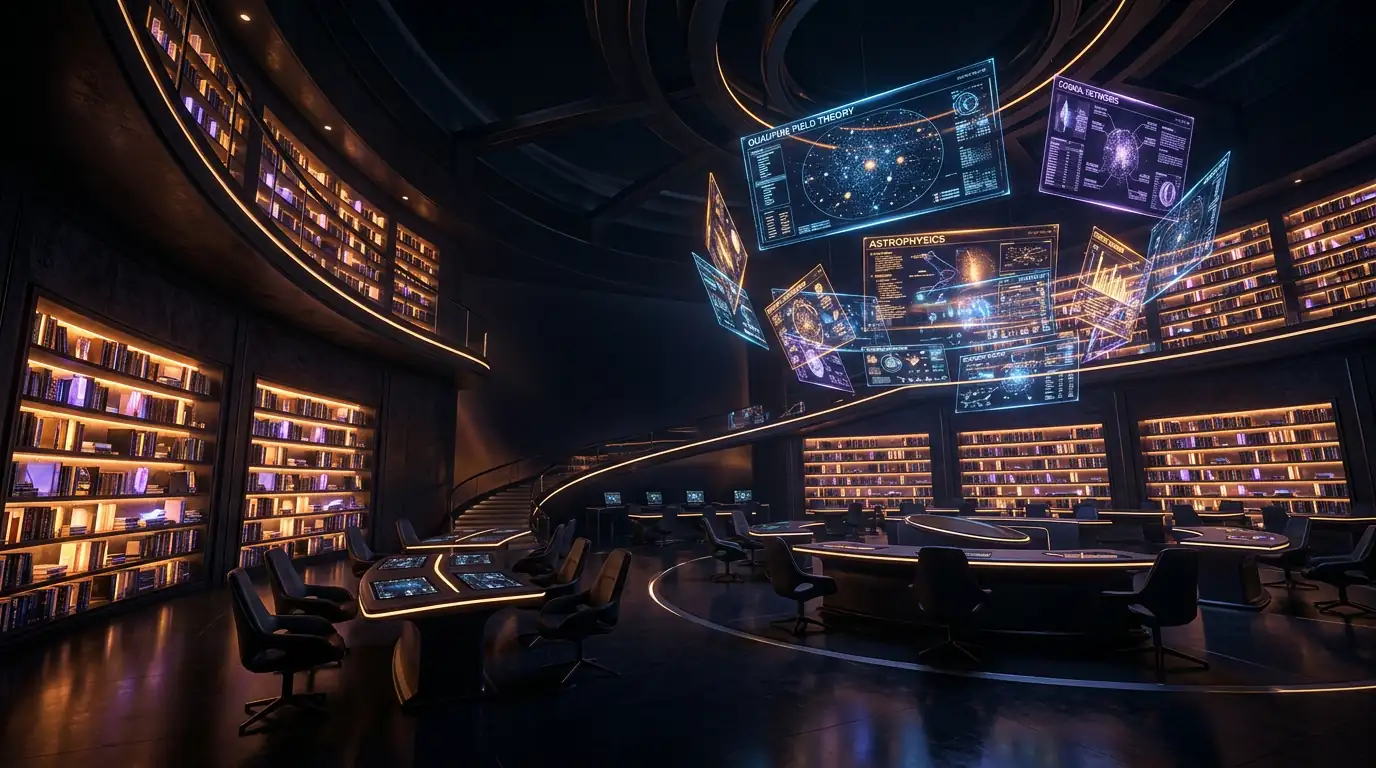
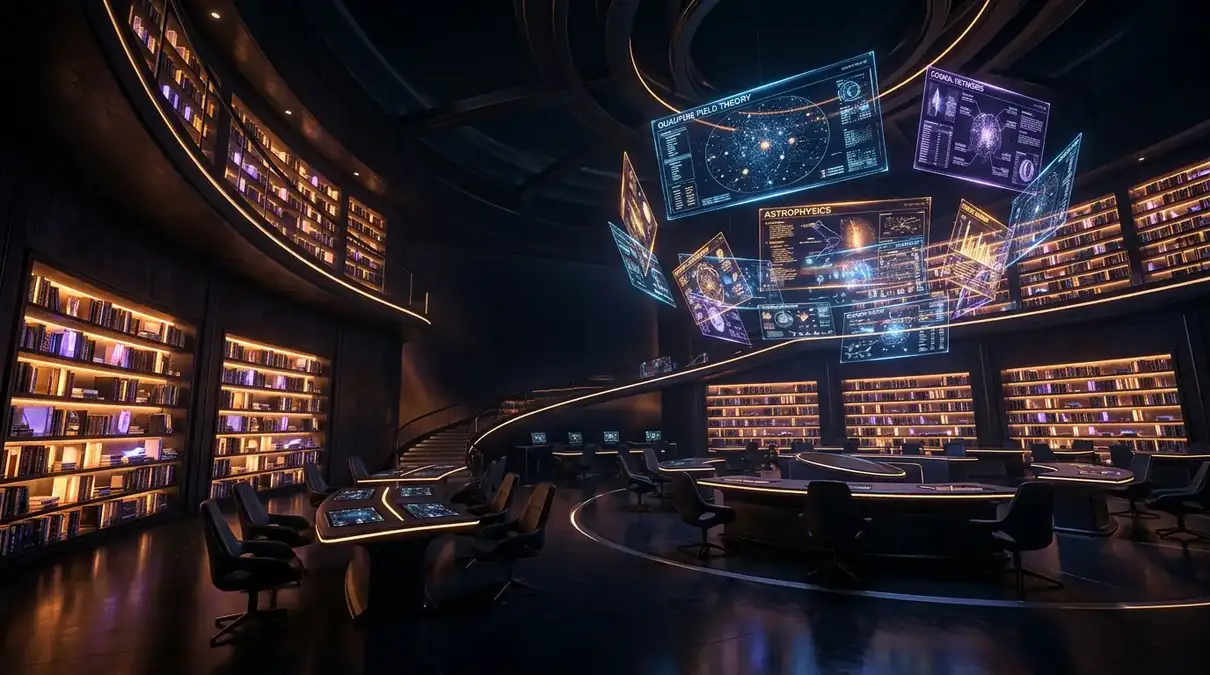
perf(assets): compress and optimize all project images to strictly under 100KB

diff --git a/README.md b/README.md
@@ -94,6 +94,12 @@ npx serve .
 
 ## 📝 Recent Changes
 
+### v1.1.9 — Project-Wide Image Optimization Under 100 KB *(Sep 16, 2026)*
+
+- **Platform-Wide Image Compression** — Scanned all 106 images across the repository and compressed every image exceeding size limits. 
+- **Major Asset Reductions** — Optimized `images/auth_team_collab.jpg` from **878.98 KB** down to **79.87 KB** (-90.9% size reduction). Compressed 28 WebP assets from 95–99.9 KB down to 50–91 KB while preserving high-definition visual fidelity.
+- **Strict Size Compliance** — 100% of images across all folders are now guaranteed to be strictly under 100 KB (and under 100,000 bytes).
+
 ### v1.1.8 — Role Selector Mobile View Overflow Fix *(Sep 16, 2026)*
 
 - **Role Dropdown Overflow Prevention (`login.html`)** — Resolved mobile text overflow on the account role selector (`#auth-role`). Implemented adaptive role labeling (`Learner` & `Administrator` on mobile `<= 640px`, and descriptive titles on larger desktop viewports) to eliminate container clipping and awkward line wrapping.
